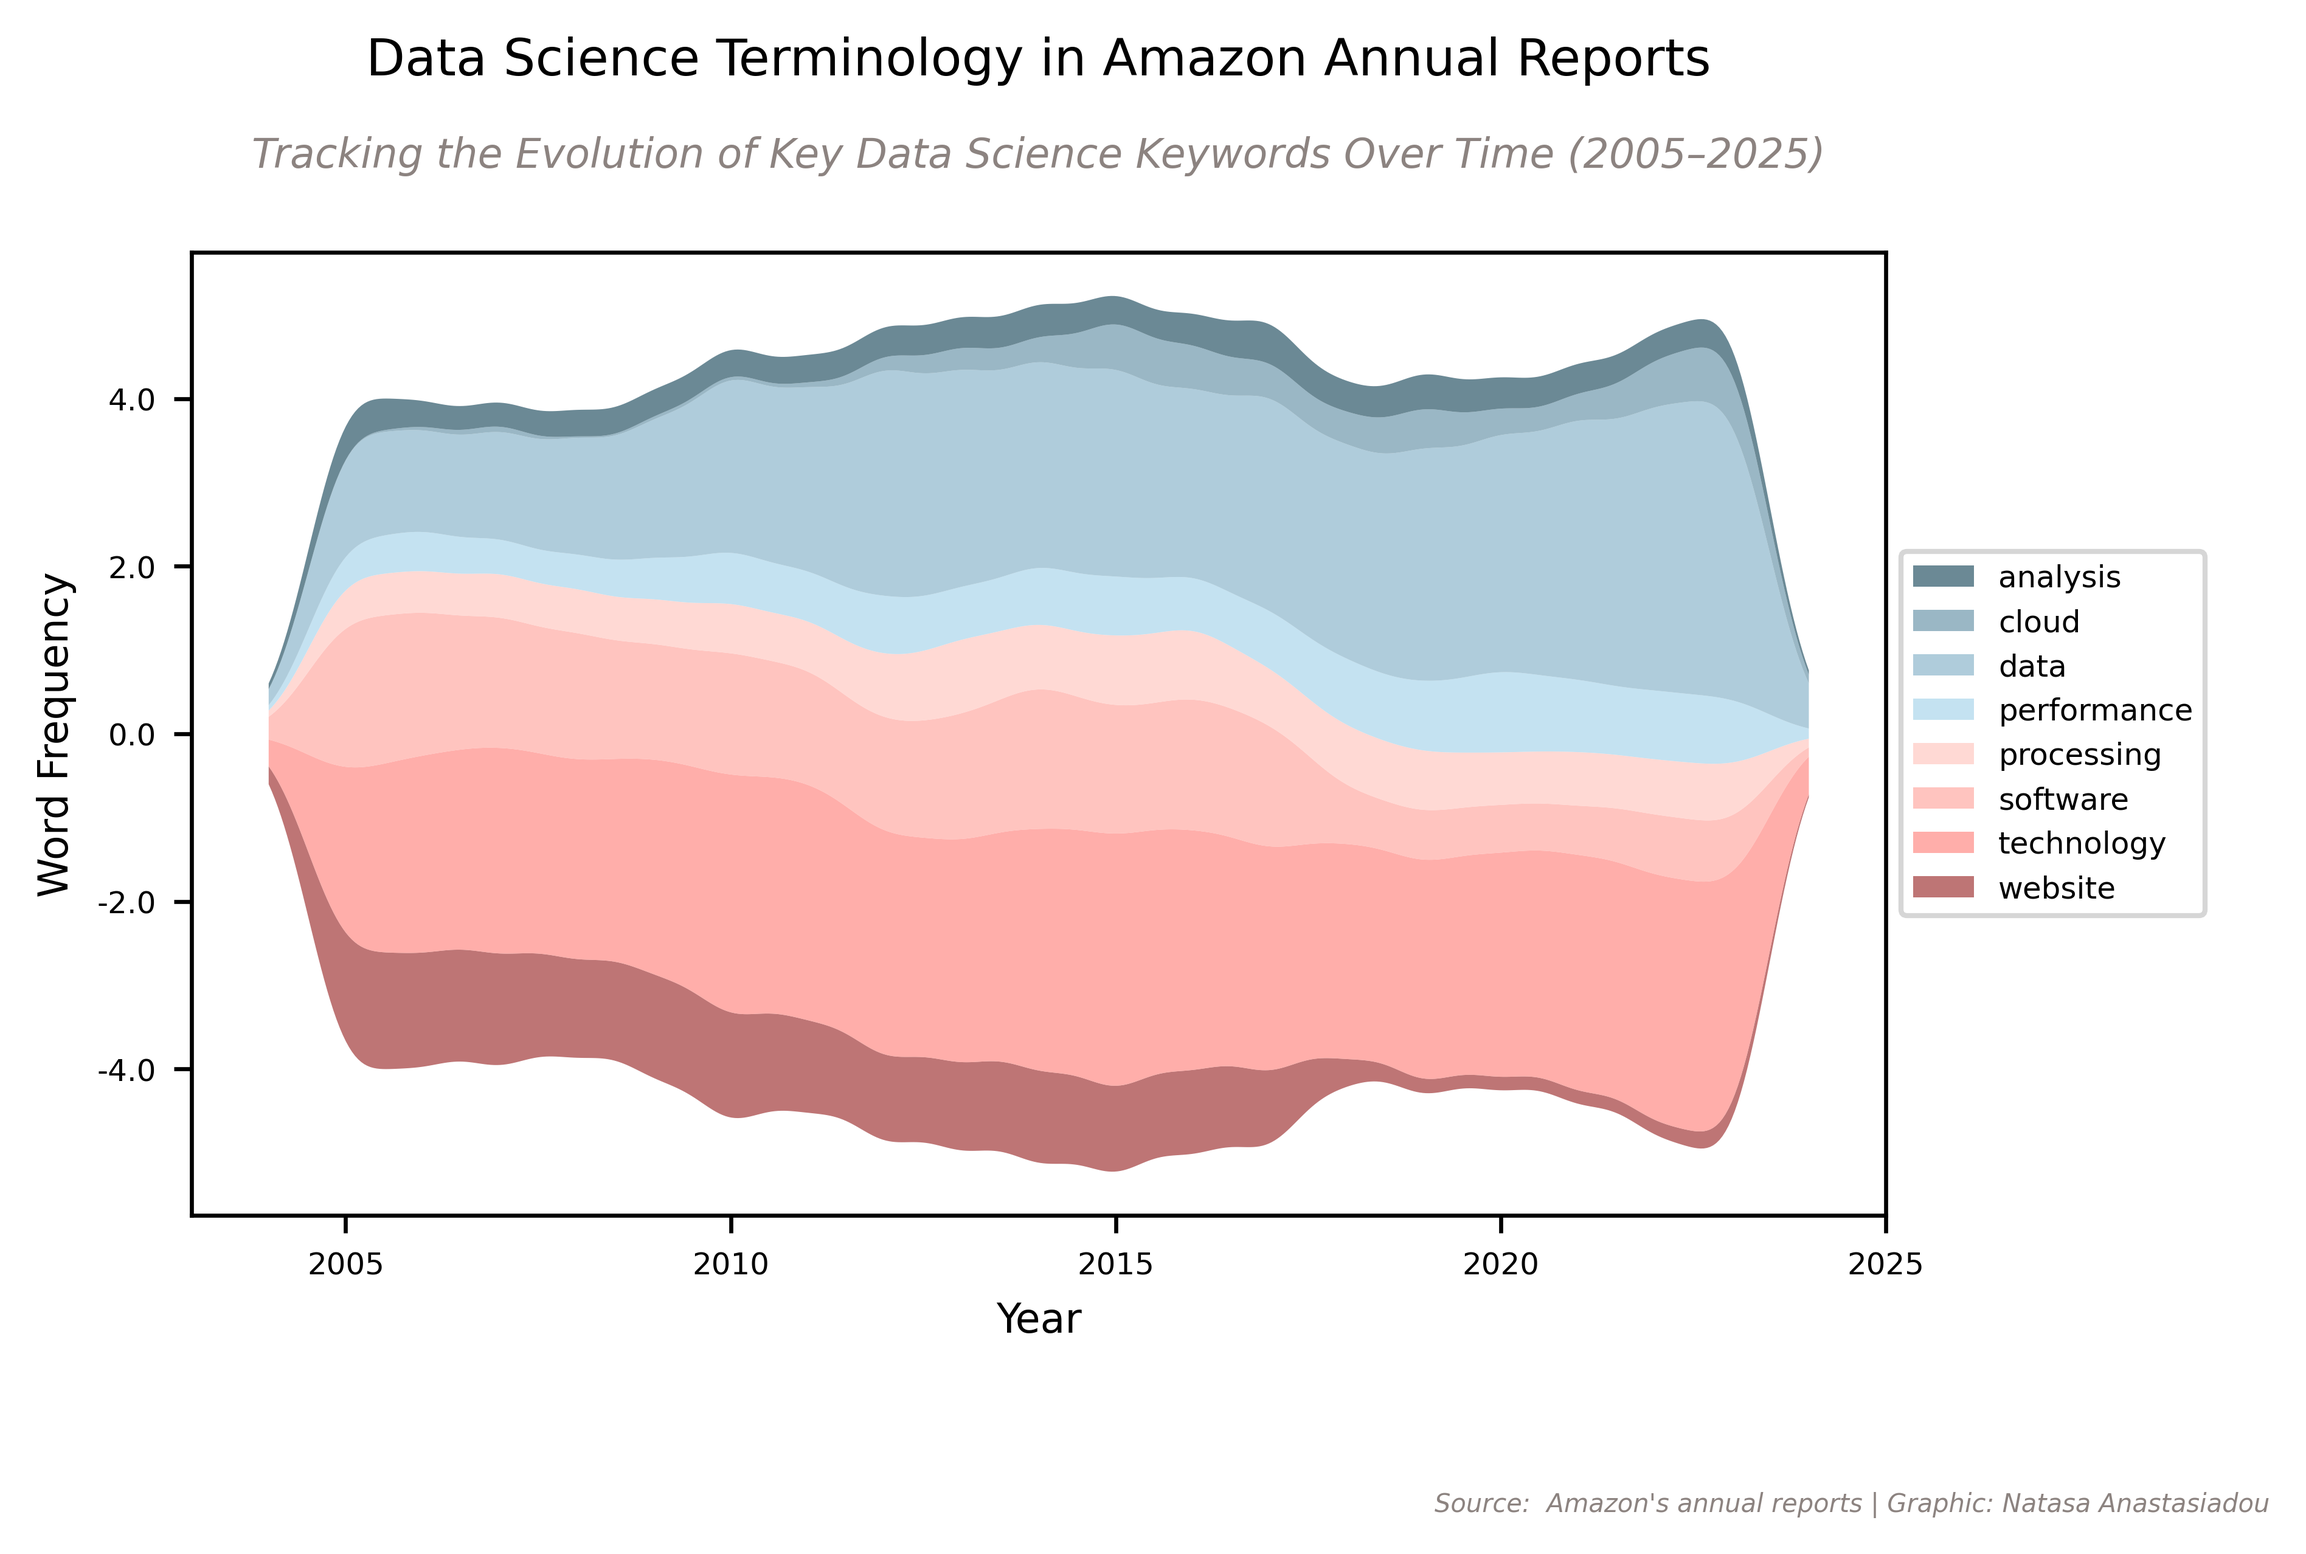
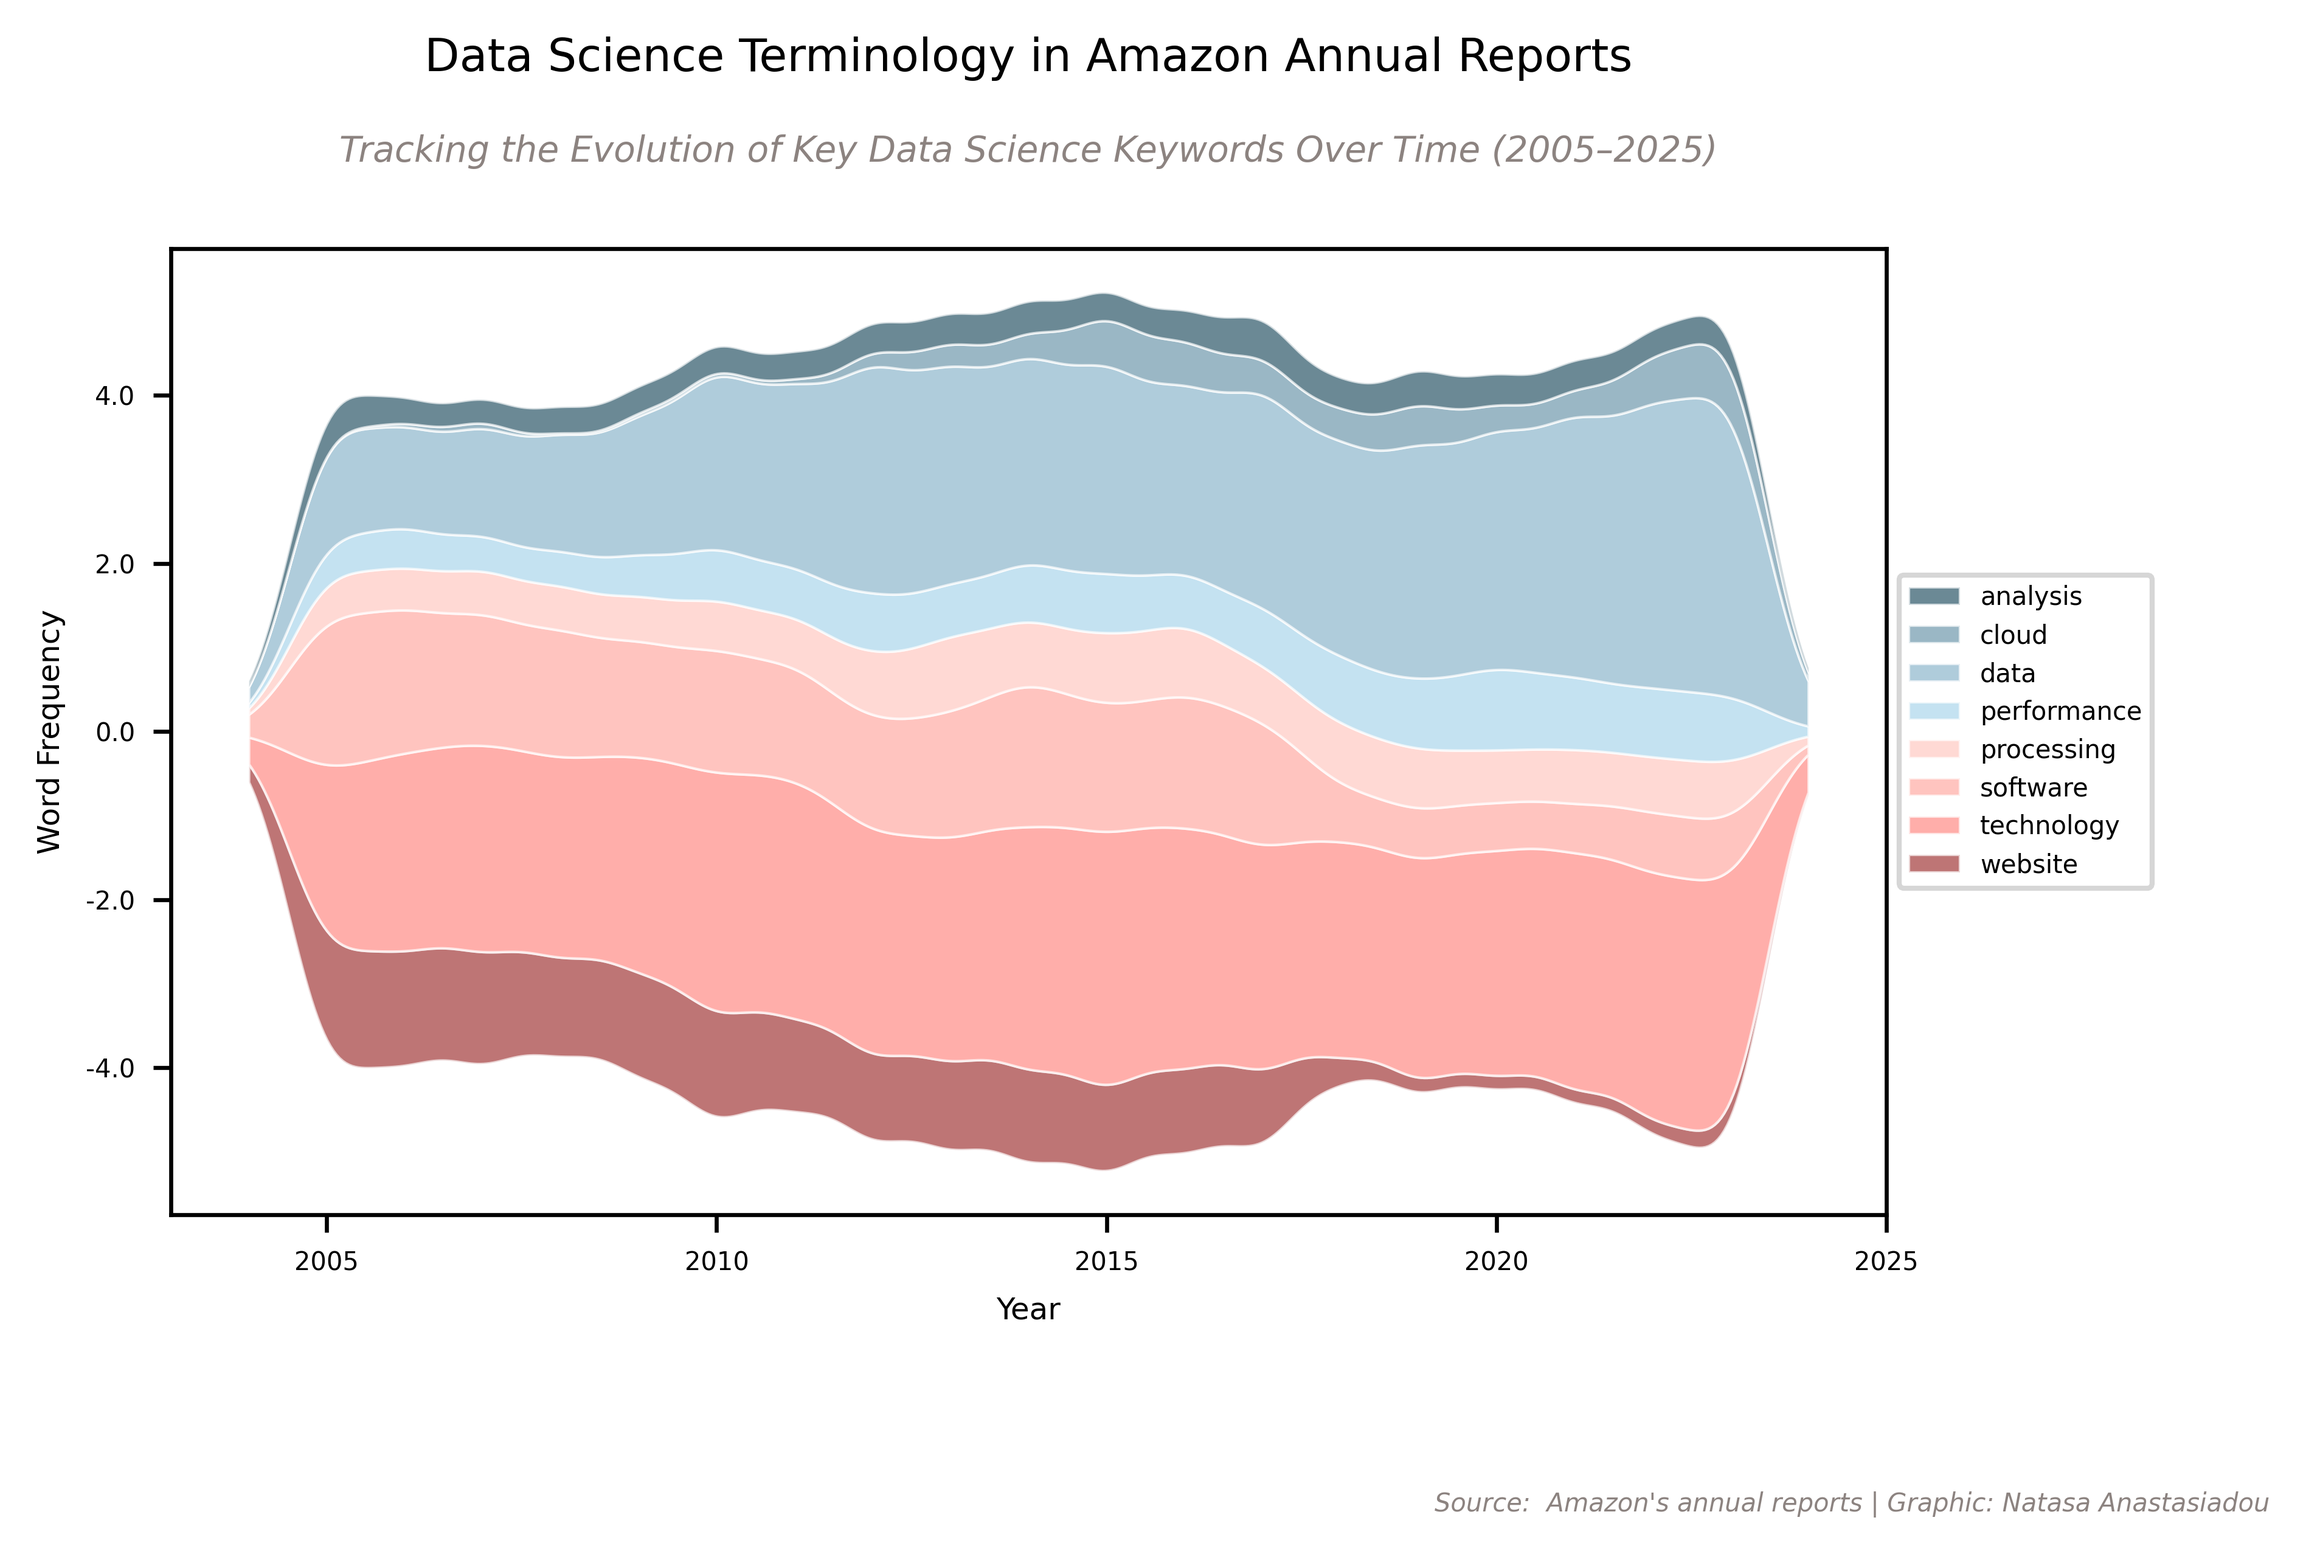
final

diff --git a/2025/20250325/20250325.py b/2025/20250325/20250325.py
@@ -50,25 +50,25 @@ col = ['#a33a3a', '#ff8c86', '#ffaba4', '#ffcac3', '#acd6ec', '#8db7cc','#6F99AD
 # col = ['#2c5769', '#6F99AD', '#8db7cc', '#acd6ec', '#ffcac3', '#ffaba4','#ff8c86', '#a33a3a']
 
 # Create the stream plot (stackplot)
-ax.stackplot(smoothed_df.index, smoothed_df.T, labels=smoothed_df.columns, alpha=0.7, colors=col, baseline="sym")
+ax.stackplot(smoothed_df.index, smoothed_df.T, labels=smoothed_df.columns, alpha=0.7, colors=col, baseline="sym", edgecolor='white', linewidth=0.5)
 
 # Add labels and title
 # ax.set_title("Data Science Related Word Usage Over Time", fontsize=16)
 
-ax.set_xlabel("Year", fontsize = 8)
-ax.set_ylabel("Word Frequency", fontsize = 8)
+ax.set_xlabel("Year", fontsize = 6)
+ax.set_ylabel("Word Frequency", fontsize = 6)
 
 handles, labels = ax.get_legend_handles_labels()
-ax.legend(handles[::-1], labels[::-1], loc='center left', bbox_to_anchor=(1, 0.5), fontsize=6)  # Move legend outside3
+ax.legend(handles[::-1], labels[::-1], loc='center left', bbox_to_anchor=(1, 0.5), fontsize=5)  # Move legend outside3
 
 ax.set_xticks([2005, 2010, 2015, 2020, 2025])  # Set specific years as ticks
-ax.set_xticklabels([2005, 2010, 2015, 2020, 2025], fontsize = 6)  # Ensure labels are readable
-ax.set_yticklabels(ax.get_yticks(), fontsize=6)
+ax.set_xticklabels([2005, 2010, 2015, 2020, 2025], fontsize = 5)  # Ensure labels are readable
+ax.set_yticklabels(ax.get_yticks(), fontsize=5)
 
 
 plt.title(
     "Data Science Terminology in Amazon Annual Reports", 
-    fontsize = 10,
+    fontsize = 9,
     pad = 35,
     x = 0.5
     )
@@ -78,7 +78,7 @@ plt.text(x = 0.5, y = 1.1,
         s = "Tracking the Evolution of Key Data Science Keywords Over Time (2005–2025)", 
         ha = 'center', 
         va = 'center', 
-        fontsize = 8, 
+        fontsize = 7, 
         style = 'italic', 
         color = "#8C8380",
         transform = plt.gca().transAxes)
@@ -94,6 +94,7 @@ plt.text(
     color = "#8C8380",
     transform = plt.gca().transAxes
 )
+
 
 
 # Display the plot
